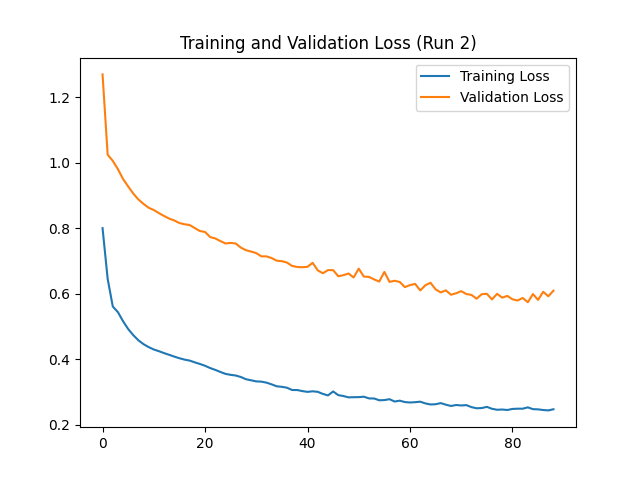
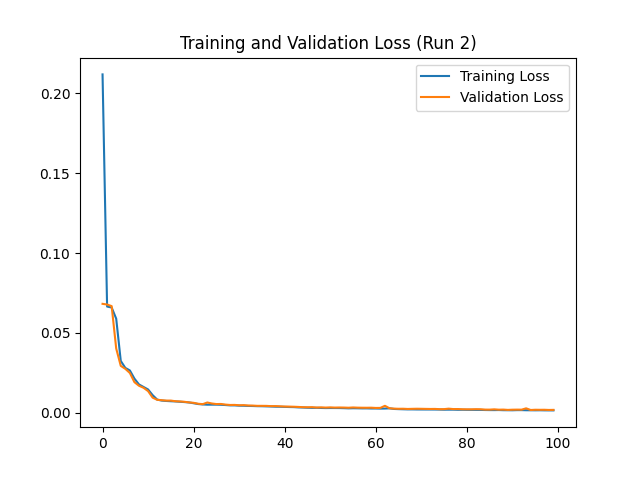
results

diff --git a/lstm_ae_5.py b/lstm_ae_5.py
@@ -57,7 +57,7 @@ test_data_values = np.expand_dims(test_data.drop(columns=['Label']).values, axis
 
 
 # Train and evaluate five times with re-initialization of model
-for i in range(1):
+for i in range(5):
     print(f"Run {i+1}:")
 
     # Define LSTM Autoencoder model for this run with a dense layer at the output
